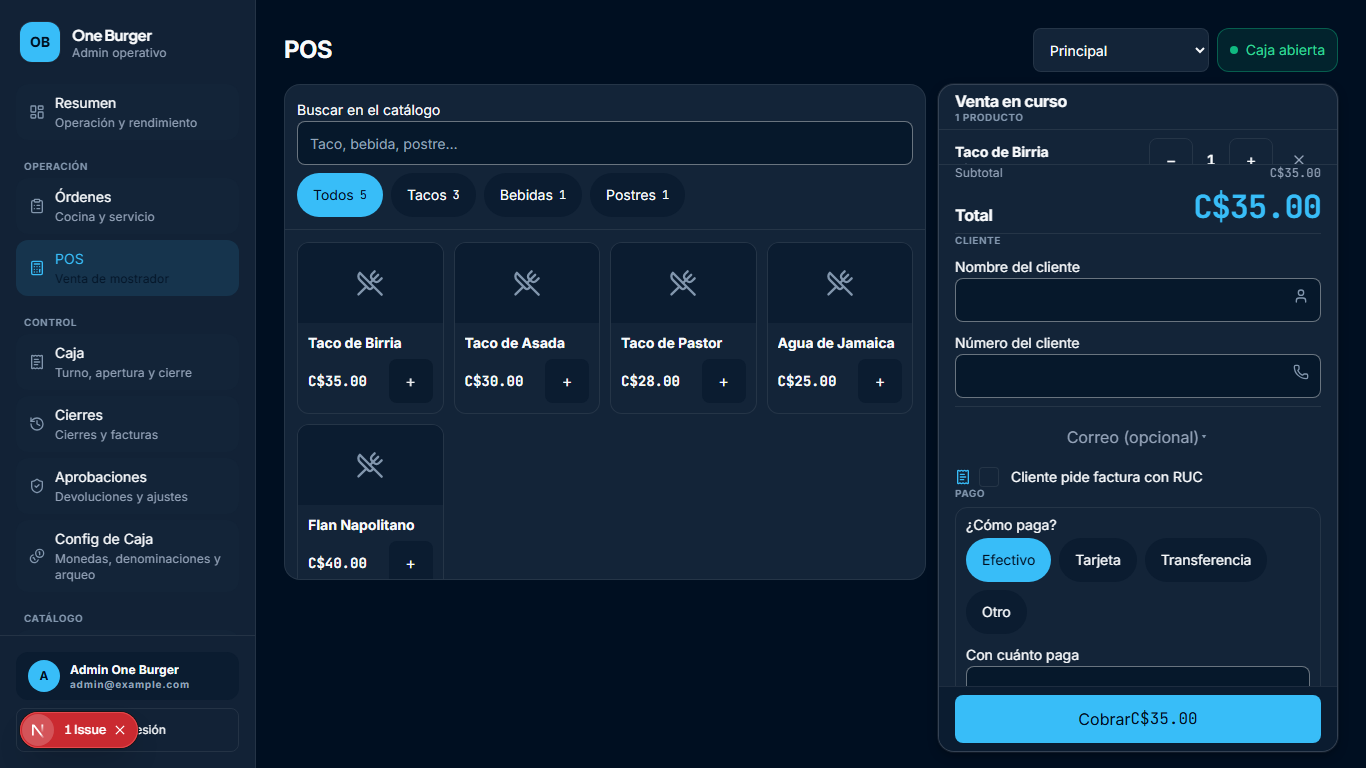
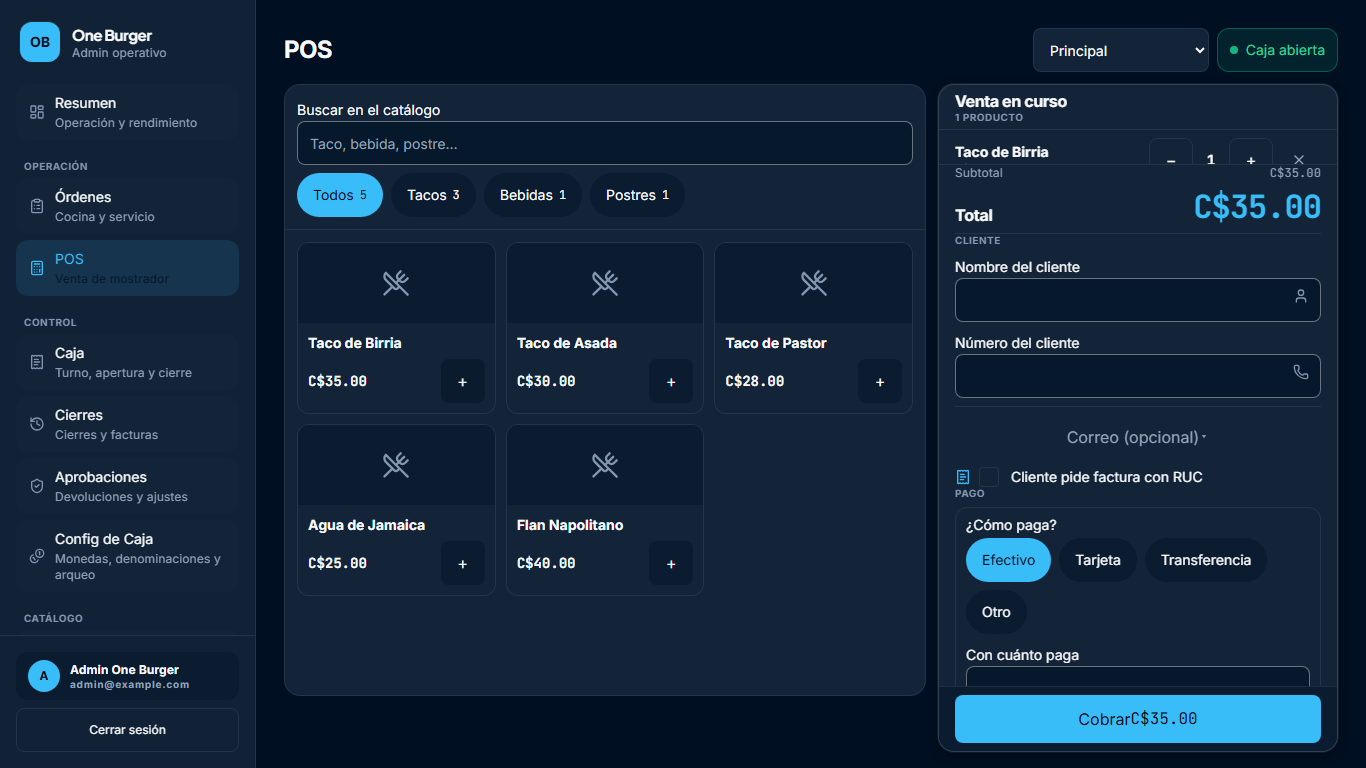
fix(pos): el catalogo usa todo el alto util y el CTA vuelve a decir Cobrar C$... (#67)
Problema (encontrado en la QA autenticada de produccion de SCREEN-POS-QUICK-SALE-001.1,
sobre 262962c / build-20260926-195012): la pantalla funcionaba pero no respetaba la
referencia aprobada en tres puntos medibles.

1. El catalogo quedaba a su alto natural: 496 px de 668 disponibles a 1366x768. La fila
   del workspace se medía por contenido porque el panel de venta es `position: fixed` en
   escritorio y porque `flex-1` trae `display: flex`, que pisa el `grid`. Ahora la fila
   reparte el alto (`lg:grow` + `lg:grid-rows-1`) y el workspace mide
   `calc(100dvh - 6.25rem)` con `lg:overflow-hidden` como red. Medido despues: 612 px de
   668 a 1366x768 y 564 de 620 a 1280x720.
2. La grilla era de cuatro columnas a 1366x768 y las tarjetas caian a 147 px, con el
   nombre partido en dos renglones por una palabra. Ahora son tres columnas en escritorio
   y dos abajo de `lg` (tarjetas de ~199 px y ~170 px), como la referencia.
3. El CTA decia `CobrarC$...` sin espacio: el JSX se comia el salto de linea entre el
   texto y el `<span>` del monto.

RED observado: el test nuevo del CTA falla con "Unable to find an accessible element with
the role button and name Cobrar C$145.00 - Name: CobrarC$145.00" y pasa al reponer el
espacio explicito. Los otros dos defectos son de layout y se validan por medicion en
navegador real (no hay asercion de px que no sea fragil).

Verificacion: 241 tests del POS y 3469 unitarios verdes; contratos 145 verdes (CURRENT.md
[…]

diff --git a/src/app/(admin)/admin/pos/quick-sale/pos-workspace.tsx b/src/app/(admin)/admin/pos/quick-sale/pos-workspace.tsx
@@ -311,15 +311,25 @@ export function PosWorkspace({
   const unitsCount = sale.lines.reduce((sum, line) => sum + line.quantity, 0);
 
   return (
-    <div className="flex flex-col gap-3 lg:h-[calc(100vh-13.5rem)] lg:min-h-[30rem]">
+    <div className="flex flex-col gap-3 lg:box-border lg:h-[calc(100dvh-6.25rem)] lg:overflow-hidden">
       <PosToolbar catalog={catalog} cash={cash} />
 
-      <div className="grid min-h-0 gap-3 max-lg:block lg:grid-cols-[minmax(0,1fr)_minmax(340px,25rem)]">
+      {/*
+        El segundo renglón se lleva **todo el alto que sobra**: la barra operativa mide lo que mide y el resto
+        es catálogo y venta.
+
+        El alto del workspace es `100dvh` menos el chrome real del admin (28 px de padding arriba y abajo más
+        los 44 px de la barra con su separación): con `100vh` a secas el pie del viewport se pasaba ~48 px y
+        el ticket terminaba fuera de la pantalla (medido a `1366×768`). `lg:overflow-hidden` es la red: si una
+        fila se niega a encogerse, se recorta acá y el catálogo sigue scrolleando adentro, en vez de empujar
+        el `Cobrar C$…` fuera de la vista.
+      */}
+      <div className="grid min-h-0 gap-3 max-lg:block lg:grow lg:grid-cols-[minmax(0,1fr)_minmax(340px,25rem)] lg:grid-rows-1">
         {/*
           `min-w-0`: sin eso la columna del catálogo se estira con su contenido (la fila de chips con scroll
           horizontal la dejaba más ancha que la pantalla y aparecía scroll horizontal a 375 px).
         */}
-        <div className="min-h-0 min-w-0">
+        <div className="min-h-0 min-w-0 max-lg:h-full">
           <PosCatalogGrid
             products={catalog.products}
             categories={catalog.categories}

diff --git a/src/app/(admin)/admin/pos/pos-catalog-grid.tsx b/src/app/(admin)/admin/pos/pos-catalog-grid.tsx
@@ -110,7 +110,12 @@ export default function PosCatalogGrid({
           />
         ) : (
           <ul
-            className="grid grid-cols-2 gap-2.5 sm:grid-cols-3 xl:grid-cols-4"
+            /*
+              Tres columnas en escritorio, como la referencia aprobada, y dos abajo de `lg` (tablet y celular).
+              Con cuatro columnas las tarjetas bajaban a ~147 px a `1366×768` y el nombre quedaba cortado en
+              dos renglones por una palabra; con tres quedan ~210 px, que es la proporción de la referencia.
+            */
+            className="grid grid-cols-2 gap-2.5 lg:grid-cols-3"
             aria-label="Productos del local"
           >
             {visibleProducts.map((product) => (

diff --git a/src/app/(admin)/admin/pos/pos-charge-panel.test.tsx b/src/app/(admin)/admin/pos/pos-charge-panel.test.tsx
@@ -49,6 +49,13 @@ describe("PosChargePanel", () => {
     expect(screen.getByRole("button", { name: /Cobrar/ }).textContent).toContain("145.00");
   });
 
+  it("el CTA separa la acción del monto (no dice `CobrarC$…`)", () => {
+    // Regresión visible en producción: el JSX se comía el espacio entre el texto y el `<span>` del monto.
+    renderPanel();
+
+    expect(screen.getByRole("button", { name: "Cobrar C$145.00" })).toBeTruthy();
+  });
+
   it("sin caja no se puede cobrar (y el motivo lo dice el bloque de caja)", () => {
     renderPanel({ canCharge: false });
 

diff --git a/src/app/(admin)/admin/pos/pos-charge-panel.tsx b/src/app/(admin)/admin/pos/pos-charge-panel.tsx
@@ -86,7 +86,9 @@ export default function PosChargePanel({
           "Cobrando…"
         ) : (
           <>
-            Cobrar <span className="font-mono">{formatCurrency(total, currency)}</span>
+            {/* El espacio antes del monto es explícito: sin él, el JSX lo come y el CTA dice `CobrarC$…`. */}
+            Cobrar{" "}
+            <span className="font-mono">{formatCurrency(total, currency)}</span>
           </>
         )}
       </Button>

diff --git a/ops/CURRENT.md b/ops/CURRENT.md
@@ -8,16 +8,18 @@ en qué estado está el sistema en pocos minutos.
 [`.agents/CONTEXT.md`](../.agents/CONTEXT.md)). Este archivo se **actualiza seguido** y se mantiene
 corto: si crece como un diario, dejó de servir.
 
-> **Última actualización**: 2026-09-26, por el release de **`SCREEN-POS-QUICK-SALE-001`** (POS Fase 1 — Venta
-> rápida, **desplegado** por el owner; ver §1 y §4).
+> **Última actualización**: 2026-09-26, por el release de **`SCREEN-POS-QUICK-SALE-001.1`** (cierre visual y
+> contractual de POS Fase 1, **desplegado**; ver §1 y §4). **POS Fase 1 queda COMPLETA**: con las credenciales
+> de admin que dio el owner se corrió la **QA autenticada en producción** a los cuatro viewports del contrato
+> (`1366×768`, `1280×720`, `768×1024`, `375×812`). **La Fase 2 NO se inició.**
 > **Vigente desde hoy: el Default E2E Delivery Contract** ([`.agents/skills/delivery-e2e/SKILL.md`](../.agents/skills/delivery-e2e/SKILL.md)):
 > una TASK aprobada declara su **Delivery Mode** y se ejecuta hasta el estado final **sin pedir permisos
 > intermedios**, y el **backup se decide por riesgo del release**, no por frecuencia (`A-57` sigue abierto como
 > problema del **scheduler** de backups y **no obliga** a un backup manual en releases que no lo necesitan).
 > **La fase de estabilización técnica sigue cerrada**: ningún P0 conocido y ningún P1 de dinero abierto. Lo que
 > sigue abierto es **operativo** (`A-57`) o **decisión del owner** (`A-66`, el `cashier` en Órdenes). Con
-> `DS-001`, `IA-001`, Órdenes y la **Venta rápida del POS** cerrados, lo que sigue es **`SCREEN-001 — Resumen`**,
-> que **no se inició**.
+> `DS-001`, `IA-001`, Órdenes y la **Venta rápida del POS** (Fase 1) cerradas, lo que sigue es
+> **`SCREEN-001 — Resumen`**, que **no se inició**.
 
 ---
 
@@ -25,12 +27,12 @@ corto: si crece como un diario, dejó de servir.
 
 | Qué | Estado |
 |---|---|
-| **Último deploy** | `build-20260926-170322`, sobre `be4c051a`+ (`main` con **`SCREEN-POS-QUICK-SALE-001`**, PR #62), 2026-09-26 17:03 UTC — deploy disparado por el **owner**. `/api/health` = `build-20260926-170322`, `/api/readiness` `ready` (DB 85 ms), smokes **menú 7/7** y **hosts 6/6**. **Sin backup manual**: no hay migración ni cambio de datos |
-| **`main`** | `3a58633` (docs de cierre, PR #63). El **código en producción** es `be4c051` — el commit de la TASK; el de docs no cambia lo desplegado. CI verde en cada push a `main` (los cuatro checks + `publish`) |
-| **Migración aplicada en este deploy** | **Ninguna**: el release es de pantalla y navegación. La última sigue siendo `20260925120000_add_payment_void`, aplicada el 2026-09-25 |
-| **Rollback target** | `build-20260926-031111` sobre `fff8d71` (IA-001 + Órdenes) — la aplicación se revierte revirtiendo el commit en `main` y volviendo a disparar `deployService`; la base no se toca (este release no migró) |
-| **Modelo de deploy** | Easypanel, proyecto `brunobot`, servicio `oneburguerweb`; build **desde GitHub `main`** con `forceRebuild`. Una sola llamada a `deployService` (la llamada cortó por timeout y el build siguió en segundo plano: comportamiento conocido, la action quedó `done`) |
-| **Migraciones** | El release de AUD-003..006 no trajo ninguna. El de A-59 **sí**: `20260925120000_add_payment_void`, aditiva y sin backfill, aplicada por el arranque |
+| **Último deploy** | `build-20260926-195012`, sobre `262962c` (`main` con **`SCREEN-POS-QUICK-SALE-001.1`**, PR #66), 2026-09-26 19:50 UTC. `/api/health` = `build-20260926-195012`, `/api/readiness` `ready` (DB 1 ms), smokes **menú 7/7** y **hosts 6/6**, y **QA autenticada en producción** a `1366×768`, `1280×720`, `768×1024` y `375×812` (§4). **Sin backup manual**: no hay migración ni cambio de datos |
+| **`main`** | `262962c` (PR #66, squash) — el commit que está en producción. El cierre de POS Fase 1 es **este PR**: código, spec y estado van juntos. CI verde en cada push a `main` (los cuatro checks + `publish`) |
+| **Migración aplicada en este deploy** | **Ninguna**: el release es de pantalla. La última sigue siendo `20260925120000_add_payment_void`, aplicada el 2026-09-25 |
+| **Rollback target** | `build-20260926-170322` sobre `be4c051` (Venta rápida, `SCREEN-POS-QUICK-SALE-001`) — la aplicación se revierte revirtiendo el commit en `main` y volviendo a disparar `deployService`; la base no se toca (ninguno de los dos releases migró) |
+| **Modelo de deploy** | Easypanel, proyecto `brunobot`, servicio `oneburguerweb`; build **desde GitHub `main`** con `forceRebuild`. Una sola llamada a `deployService` (la llamada puede cortar por timeout y el build sigue en segundo plano: comportamiento conocido) |
+| **Migraciones** | Este release no trae ninguna. La última es `20260925120000_add_payment_void` (A-59), aditiva y sin backfill, aplicada por el arranque |
 | **Réplicas** | `1` |
 | **Backup pre-deploy** | **El owner generó un backup manual de la base** (confirmado el 2026-09-26) aunque el release no lo exigía —no hay migración ni cambio de datos—. El hallazgo `A-57` (el backup **programado** no genera archivos y no hay retención declarada) **sigue abierto** y es del owner; el archivo **no se pudo verificar** desde acá (el panel de Easypanel responde **401** sin token) |
 | **Hosts activos** | `oneburgernic.com` y `www` (landing + redirects 307) · `menu.oneburgernic.com` (app de pedidos) · `admin.oneburgernic.com` (panel) |
@@ -39,32 +41,30 @@ corto: si crece como un diario, dejó de servir.
 | **Datos de negocio** | 3 sucursales reales (Camino de Oriente, Carretera Masaya, Casa Antigua). La carta la sigue cargando el owner |
 | **Caja en producción** | Sin terminales de caja cargadas al momento del último QA: es el estado real del negocio, no un defecto |
 
-⚠ **Lo que la verificación de este release NO pudo hacer desde el entorno del agente**: no hay
-credenciales de admin de producción (`E2E_ADMIN_*`), así que la **QA autenticada 375/768/1280 del POS queda
-pendiente del owner** (es el mismo límite que arrastran los releases anteriores, anotado en el runbook §3).
-El POS se verificó **antes** del deploy contra una base local con la suite E2E completa (`admin-pos` 11/11 a
-375, 768 y 1280, con capturas en [`design/screens/`](design/screens/)), y después del deploy lo que se puede
-comprobar sin sesión: `build-20260926-170322` sirviendo, readiness `ready` y los dos smokes en verde.
+✅ **QA autenticada de producción del POS (2026-09-26, hecha)**: el owner dio credenciales de admin, así que
+—a diferencia de los releases anteriores, donde este paso quedaba pendiente— la pantalla se abrió **en
+producción con sesión** a los cuatro viewports del contrato (`1366×768`, `1280×720`, `768×1024`, `375×812`).
+Cada uno se midió en el navegador: sin scroll horizontal, barra operativa en una línea, sin hero y sin
+`Cobrar pedido del menú`, el `Cobrar C$…` dentro del primer viewport y el sheet de celular abriendo con su
+total. Las credenciales se usaron solo por entorno y **no** se guardan en el repo.
+⚠ **Lo que la verificación de este release NO pudo hacer desde acá**: los **logs del contenedor** no son
+accesibles por API (`inspectAction`/`getActionLogs`/`inspectServiceLogs` responden 404) y no se ejercitó la
+presencia de `voidedAt` con lectura autenticada (sí la aplica el contenedor al arrancar). El POS se verificó
+además **antes** del deploy contra una base local con la suite E2E completa (`admin-pos` 11/11 con mutaciones,
+capturas en [`design/screens/`](design/screens/)).
 
 ⚠ **Hallazgo operativo (sigue abierto): el backup programado no genera archivos.** La config está
-`enabled: true` (cron `0 0 * * *`) y carpeta `oneburguer`, pero las **únicas** acciones de backup del
-servicio son **tres** desde siempre: las dos del drill (2026-09-12) y la manual del release anterior
-(2026-09-25 12:27). El respaldo programado **no produjo ningún archivo**, tampoco el del día de este
-release. **No hay retención declarada.** El backup de este release lo confirmó el owner a mano →
-`A-57` en el backlog.
+`enabled: true` (cron `0 0 * * *`) y carpeta `oneburguer`, pero las **únicas** acciones de backup del servicio
+son **tres** desde siempre: las dos del drill (2026-09-12) y la manual del release anterior. El respaldo
+programado **no produjo ningún archivo** y **no hay retención declarada** → `A-57` en el backlog.
 
-✅ **Verificación post-deploy del release de la Venta rápida (2026-09-26, solo lectura y sin sesión)**:
-`/api/health` = `build-20260926-170322` (versión nueva) y `/api/readiness` `ready`; los dos smokes **7/7** y
-**6/6**. Lo que **no** se pudo hacer: abrir una pantalla con sesión —no hay credenciales de admin acá—, así
-que la **QA autenticada del POS 375/768/1280 queda pendiente del owner** (se verificó antes del deploy contra
-una base local: `admin-pos` **11/11**, capturas en [`design/screens/`](design/screens/)). Tampoco se
-ejercitó la presencia de `voidedAt` con lectura autenticada (sí la aplica el contenedor al arrancar).
+✅ **Verificación post-deploy del release (2026-09-26, solo lectura)**: `/api/health` =
+`build-20260926-195012` (versión nueva) y `/api/readiness` `ready`; los dos smokes **7/7** y **6/6**.
 
 📋 **Pasada read-only de A-50/A-51 (acotada, sin reparar nada)**: **A-51** — los **5** cierres tienen
 `expectedAmount` firmado y **ninguno** tenía retiros ni devoluciones, así que la fórmula corregida de AUD-005
 **no altera ningún número histórico**; el detalle de `ShiftBankClose` es **no determinable** (producción no
-tiene bancos configurados). **A-50** — **no identificable** desde la API (no expone los cobros ni la clave de
-intento): requiere leer la base. **No reparado.**
+tiene bancos configurados). **A-50** — **no identificable** desde la API: requiere leer la base. **No reparado.**
 
 ⚠ **Límite del entorno del agente en este release**: **los logs del contenedor no son accesibles por API**
 (`actions/inspectAction`, `actions/getActionLogs` y `services/app/inspectServiceLogs` responden 404), así que
@@ -157,13 +157,15 @@ está **aprobado y desplegado**; **`IA-001`** (navegación del panel) también; 
 **`SCREEN-POS-QUICK-SALE-001`** la segunda ([`design/screens/pos-quick-sale.md`](design/screens/pos-quick-sale.md)).
 Lo que sigue es **`SCREEN-001 — Resumen`**, que **no se inició**.
 
-**SCREEN-POS-QUICK-SALE-001 — POS Fase 1 / Venta rápida (cerrada, `be4c051`, `build-20260926-170322`,
-desplegada por el owner)**: la Venta rápida pasó a un **workspace `CATÁLOGO | VENTA`** —ticket anclado al
-viewport en escritorio, barra + sheet en celular y tablet, opciones secundarias bajo demanda—. **Sin dominio,
-sin endpoints, sin permisos y sin DB.** `pos-client.tsx` bajó de **1.005 a 427 líneas**. El detalle, la QA y
-los dos desvíos medidos respecto del boceto están en
-[`design/screens/pos-quick-sale.md`](design/screens/pos-quick-sale.md). **QA autenticada de producción
-pendiente del owner**: desde acá no hay credenciales de admin (§1).
+**SCREEN-POS-QUICK-SALE-001.1 — POS Fase 1 / Venta rápida (CERRADA: Fase 1 COMPLETA)**: la 001 adoptó el
+workspace `CATÁLOGO | VENTA` (`be4c051`, `build-20260926-170322`) y la **001.1** lo corrigió contra la
+**referencia revisada del owner**: hero y explicaciones fuera, barra operativa de **una línea**, acciones de
+caja **solo donde bloquean el cobro**, `Cobrar pedido del menú` fuera del POS (*one canonical flow*: Órdenes
+localiza, POS cobra), catálogo y ticket a **alto útil** y opciones secundarias plegadas. **Sin dominio, sin
+endpoints, sin permisos y sin DB.** La **QA autenticada de producción** del contrato de viewport encontró tres
+defectos visuales —catálogo a su alto natural (496 px de 668), cuatro columnas con tarjetas de 147 px y el CTA
+diciendo `CobrarC$…`— que este release corrige y vuelve a medir (detalle y evidencia en
+[`design/screens/pos-quick-sale.md`](design/screens/pos-quick-sale.md)). **La Fase 2 NO se inició.**
 
 **SCREEN-ORDERS-001 — Órdenes (cerrada, `fff8d71`, desplegada)**: discovery, arquitectura/IA, spec, prototipo
 y capturas → implementación bajo DS v4 → QA de navegador a 375/768/1280 → PR #57 con CI verde. Entregado: los
@@ -190,21 +192,20 @@ aprobó el owner, en [`roadmap/`](roadmap/).
 
 **Baseline de `DS-001` (2026-09-26, cerrado)**: `4dc2cbb` → `build-20260926-003808`, sin migraciones ni cambios visuales; quedó superado por el release de `IA-001` + Órdenes (ver §1).
 
-**Release de `SCREEN-POS-QUICK-SALE-001` (2026-09-26, cerrado)**: `main` = `be4c051` **desplegado** sirviendo
-`build-20260926-170322` (deploy del owner). Sin migraciones, sin dominio y sin backup. Health/readiness y los
-dos smokes (7/7 y 6/6) en §1; la **QA autenticada de producción queda pendiente del owner** porque acá no hay
-credenciales de admin.
+**Release de `SCREEN-POS-QUICK-SALE-001.1` (2026-09-26, cerrado)**: `main` = `262962c` **desplegado** sirviendo
+`build-20260926-195012`, más las tres correcciones que salieron de la QA autenticada. Sin migraciones, sin
+dominio y sin backup. Health/readiness y los dos smokes (7/7 y 6/6) en §1; la **QA autenticada de producción**
+del contrato de viewport quedó **hecha** con las credenciales del owner (§4).
 
 **El bloque financiero de la remediación quedó cerrado y desplegado** (`AUD-003..006`, `A-54`, `A-55`,
 `A-58`, `A-59`) y con él la **fase de estabilización técnica**. Lo que sigue, en orden:
 
-1. **QA autenticada de producción del POS** (375/768/1280) — la hace el owner o alguien con las credenciales.
-2. **`SCREEN-001` — `/admin` Resumen**: **no iniciado**. Se diseña con la skill `screen-design` (spec
+1. **`SCREEN-001` — `/admin` Resumen**: **no iniciado**. Se diseña con la skill `screen-design` (spec
    aprobada por el owner) y se implementa bajo DS v4 en una sola pasada, como en Órdenes.
-3. **POS Fase 2 — pedidos existentes / pagos / bancos / USD / factura**: la define el owner **aparte**; la
+2. **POS Fase 2 — pedidos existentes / pagos / bancos / USD / factura**: la define el owner **aparte**; la
    Fase 1 dejó escrito qué no se tocó. **No se inicia automáticamente.**
-4. **Deuda de Órdenes (`A-60` a `A-66`)** y después `AUD-009`/`AUD-010`, `AUD-012`/`AUD-013`/`AUD-014`.
-5. `A-57` (backup programado) es **infraestructura**: el owner decide y no bloquea el producto. Y **higiene
+3. **Deuda de Órdenes (`A-60` a `A-66`)** y después `AUD-009`/`AUD-010`, `AUD-012`/`AUD-013`/`AUD-014`.
+4. `A-57` (backup programado) es **infraestructura**: el owner decide y no bloquea el producto. Y **higiene
    pendiente del owner**: revocar la cuenta de QA anterior y **rotar el `EASYPANEL_TOKEN`**.
 
 > ⚠ **Dos correcciones al brief de la auditoría, verificadas en el repo:**

diff --git a/ops/roadmap/NEXT.md b/ops/roadmap/NEXT.md
@@ -2,13 +2,16 @@
 
 ## Ahora
 
-**`SCREEN-POS-QUICK-SALE-001 — POS Fase 1 / Venta rápida` cerrada y desplegada** (2026-09-26, PR #62,
-`be4c051`, `build-20260926-170322`): la Venta rápida dejó de ser un formulario vertical y pasó a un
-**workspace `CATÁLOGO | VENTA`** —ticket anclado al viewport en escritorio, barra + sheet en celular y
-opciones secundarias bajo demanda—. La spec canónica vive en
-[`../design/screens/pos-quick-sale.md`](../design/screens/pos-quick-sale.md), con la referencia del owner al
-lado. Health, readiness y los dos smokes en [`../CURRENT.md`](../CURRENT.md) §1. **QA autenticada de
-producción (375/768/1280): pendiente del owner** —desde el entorno del agente no hay credenciales de admin.
+**`SCREEN-POS-QUICK-SALE-001.1 — POS Fase 1 / Venta rápida` CERRADA: la Fase 1 está COMPLETA** (2026-09-26).
+La 001 (PR #62, `be4c051`, `build-20260926-170322`) convirtió la Venta rápida en un **workspace
+`CATÁLOGO | VENTA`** —ticket anclado al viewport en escritorio, barra + sheet en celular y tablet y opciones
+secundarias bajo demanda— y la **001.1** la corrigió contra la **referencia revisada del owner** (hero fuera,
+barra operativa de una línea, acciones de caja solo donde bloquean el cobro, `Cobrar pedido del menú` fuera del
+POS, catálogo y ticket a alto útil) y le agregó los guardrails de **reuse-first**, **one canonical flow**,
+**reuse audit**, **reference fidelity** y **viewport contract**. La spec canónica vive en
+[`../design/screens/pos-quick-sale.md`](../design/screens/pos-quick-sale.md); el deploy, la **QA autenticada de
+producción a los cuatro viewports** (`1366×768`, `1280×720`, `768×1024`, `375×812`) y los dos smokes están en
+[`../CURRENT.md`](../CURRENT.md) §1 y §4. **La Fase 2 NO se inició.**
 
 **`SCREEN-ORDERS-001 — Órdenes` cerrada y desplegada** (2026-09-26): es la **primera sección rediseñada de
 punta a punta** con el proceso completo —discovery, arquitectura/IA, spec de pantalla, prototipo y capturas,
@@ -25,20 +28,16 @@ no normativo**. `ARCH-001` ([`../product/MODULE_ARCHITECTURE.md`](../product/MOD
 
 ## Después
 
-1. **QA autenticada de producción de la Venta rápida** (375/768/1280) — la hace el owner o alguien con
-   credenciales de admin; desde el entorno del agente no hay. Casos mínimos: venta vacía, agregar/sacar,
-   modificadores, cantidades, búsqueda, categorías, agotado, efectivo y vuelto, tarjeta, transferencia,
-   multi-pago, promo, RUC, descuento, esperas, caja cerrada, cierre obligatorio, offline, success y recarga
-   con draft recuperado.
-2. **`SCREEN-001 — /admin Resumen`**: **no iniciado**. El camino es producto + arquitectura + IA + UX →
+1. **`SCREEN-001 — /admin Resumen`**: **no iniciado**. El camino es producto + arquitectura + IA + UX →
    mockup canónico → revisión del owner → implementación bajo DS v4 (skill `screen-design`), igual que se
    hizo en Órdenes.
-3. **`POS Fase 2 — pedidos existentes / pagos / bancos / USD / factura`**: la define el owner **aparte**. La
+2. **`POS Fase 2 — pedidos existentes / pagos / bancos / USD / factura`**: la define el owner **aparte**. La
    Fase 1 dejó escrito qué **no** se tocó (banco/procesador en `Payment`, corrección USD del cobro de pedidos
-   existentes, promo a un pedido ya creado y el rediseño final de «Cobrar pedido»). **No se inicia sola.**
-4. **Deuda de Órdenes (`A-60` a `A-66`)**: por riesgo, primero `A-60` (plata y PIN en el detalle para
+   existentes, promo a un pedido ya creado y el rediseño final de «Cobrar pedido», que ahora vive en
+   `A-67`: Órdenes localiza el pedido y el POS lo cobra). **No se inicia sola.**
+3. **Deuda de Órdenes (`A-60` a `A-67`)**: por riesgo, primero `A-60` (plata y PIN en el detalle para
    `kitchen`) y `A-61` (proyección del endpoint de la bandeja).
-5. **Revisión del owner de `ARCH-001`** — las divergencias registradas (Resumen/POS en la navegación, el
+4. **Revisión del owner de `ARCH-001`** — las divergencias registradas (Resumen/POS en la navegación, el
    dominio de Caja repartido) siguen siendo decisiones suyas, y `A-66` (el `cashier` en Órdenes) es la
    primera de la lista.
 

diff --git a/ops/design/screens/pos-quick-sale.md b/ops/design/screens/pos-quick-sale.md
@@ -1,8 +1,14 @@
 # Spec de pantalla — POS / Venta rápida (`/admin/pos`)
 
-> **Plantilla**: [`TEMPLATE.md`](TEMPLATE.md). **Estado**: Fase 1 adoptada por `SCREEN-POS-QUICK-SALE-001` y
-> **corregida visual y contractualmente** por `SCREEN-POS-QUICK-SALE-001.1` (2026-09-26): la referencia anterior
-> queda **reemplazada** para composición, densidad y comportamiento responsive.
+> **Plantilla**: [`TEMPLATE.md`](TEMPLATE.md).
+>
+> **Estado: `SCREEN-POS-QUICK-SALE-001.1` desplegada y con QA autenticada de producción cerrada** (2026-09-26):
+> sobre `262962c`, sirviendo `build-20260926-195012`, con la QA en navegador real a los cuatro viewports del
+> contrato (`1366×768`, `1280×720`, `768×1024`, `375×812`) contra producción y sesión de admin. La Venta rápida
+> de la Fase 1 queda **completa**; la Fase 2 **no** se inició.
+>
+> **Corrección visual y contractual**: la referencia anterior queda **reemplazada** para composición, densidad y
+> comportamiento responsive.
 >
 > **Referencia de UX/layout/comportamiento**: [`pos-quick-sale-reference.html`](pos-quick-sale-reference.html)
 > (prototipo, **no** código productivo: se traduce a componentes reales, **no** se reinterpreta).
@@ -199,9 +205,10 @@ venta vive en un **sheet** que se abre desde la barra inferior persistente, al p
 | Caja: **estado** en la barra, **acción** en el checkout (`Abrir caja`; `Cierre pendiente → Cerrar caja`, que enlaza a Caja) | `pos-cash-action.test.tsx` + tests del workspace + E2E de caja |
 | `Cobrar pedido del menú` **eliminado** del POS (sin reemplazo: pertenece a Órdenes) | lint/typecheck sin referencias + spec § *Reuse audit* |
 | Ticket con **alto útil**: las líneas se llevan el espacio libre y el CTA queda anclado al pie | Tests del workspace + medición en los cuatro viewports |
-| Catálogo más **denso** (foto compacta, sin repetir la categoría de los chips, 3–4 columnas) | `pos-catalog-card.test.tsx` + capturas |
+| Catálogo más **denso** (foto compacta, sin repetir la categoría de los chips, **tres columnas** en escritorio y dos abajo de `lg`, como la referencia) | `pos-catalog-card.test.tsx` + capturas |
 | Scroll de página eliminado en operación normal; el scroll vive en el catálogo y en las líneas | QA de navegador: `1366×768`, `1280×720`, `768×1024`, `375×812` |
 | Guardrails nuevos (reuse-first, one canonical flow, reuse audit, reference fidelity, viewport contract) | `MODULE_ARCHITECTURE.md` §10.1–§10.3, `DESIGN_SYSTEM.md` §12, `TEMPLATE.md`, skills `screen-design` / `new-task` |
+| **Correcciones del QA de producción** (2026-09-26, sobre `262962c`): el catálogo ocupa **todo el alto útil** de su columna (antes quedaba a su alto natural, 496 px de 668), la grilla es de **tres columnas** (cuatro dejaba la tarjeta en 147 px y el nombre partido) y el CTA dice **`Cobrar C$…`** con su espacio (antes: `CobrarC$…`) | Medición en navegador + `pos-charge-panel.test.tsx` (con RED observado) |
 
 **Divergencias respecto de la referencia, decididas y medidas** (una divergencia material sin decisión sería
 Stop Condition; estas están justificadas por la propia spec aprobada, que permite el patrón mobile cuando dos
@@ -212,6 +219,9 @@ columnas comprometen la legibilidad):
 2. **El panel de escritorio se ancla con `position: fixed` medido, no con `sticky`**: un `<dialog open>` con
    `sticky` no se pega (medido en Chromium) y el `<dialog>` es la forma correcta frente a la ley que prohíbe el
    rol de diálogo escrito a mano.
+3. **La foto del producto mide 80 px fijos** (la referencia usa 84 px): la tarjeta real tiene el nombre en
+   dos renglones y el precio con `tabular-nums`, así que la proporción se ajustó para conservar la densidad
+   de la referencia sin cortar nombres reales.
 
 **Estado previo (Fase 1, `be4c051`, `build-20260926-170322`)**: cerrada y desplegada con los cuatro checks de
 CI verdes, `/api/health` con la versión nueva, `/api/readiness` `ready` y los dos smokes (7/7 y 6/6).

diff --git a/.agents/MEMORY.md b/.agents/MEMORY.md
@@ -33,6 +33,15 @@ va al historial o al PR. Si cambia semana a semana, va a `CURRENT.md`.
   de uso, porque el aviso al dueño y el traspaso se firman con el arqueo completo).
 - **La zona horaria del negocio sale de `BusinessSettings.timezone`**; `America/Managua` y `-06:00`
   están prohibidos como literales (los detecta el contrato anti-hardcode).
+- **Un `<dialog open>` no es un bloque común para CSS de layout** (`SCREEN-POS-QUICK-SALE-001.1`, medido en
+  Chromium): trae `inset: 0` y `margin: auto` del navegador —con `top` puesto, el navegador lo **estira**
+  hasta el fondo—, **no se pega** con `position: sticky`, y un `max-height` en `vh` ignora el ancla (si
+  arranca debajo de una barra, el pie queda fuera de pantalla). Para usarlo como columna: `position: fixed`
+  con el ancla **medida** (`getBoundingClientRect` + `bottom: auto` + `margin: 0`) y el alto en
+  `calc(100dvh - ancla)`.
+- **Una fila de `grid` no crece con `flex-1`**: `flex-1` trae `display: flex`, que pisa el `grid`. Para
+  repartir alto en un grid hace falta `grow` + `grid-rows-1`. Y si el panel vecino es `fixed`, la fila se
+  mide por **contenido**: sin reparto explícito el panel queda a su alto natural y no al del viewport.
 - **La aceptación de pedidos tiene una sola puerta**: `order-acceptance.ts`. Un control que nadie lee
   es una mentira: `isAcceptingOrders` existía en el esquema y en la UI, pero **ningún** caso de uso lo
   consultaba.

diff --git a/ops/roadmap/PRODUCT-UX-ROADMAP.md b/ops/roadmap/PRODUCT-UX-ROADMAP.md
@@ -678,12 +678,14 @@ IA-001 — navegación del panel
         ↓
 SCREEN-ORDERS-001 — Órdenes ✅
         ↓
-SCREEN-POS-QUICK-SALE-001 — POS Fase 1 / Venta rápida ✅
+SCREEN-POS-QUICK-SALE-001.1 — POS Fase 1 / Venta rápida ✅ (Fase 1 COMPLETA)
 │
 ├── workspace CATÁLOGO | VENTA (ticket anclado en escritorio)
-├── barra + sheet en celular y tablet
-├── opciones secundarias bajo demanda
-└── cero dominio / DB  (el deploy queda pendiente del token)
+├── barra + sheet en celular y tablet · opciones secundarias bajo demanda
+├── referencia del owner aplicada: barra de una línea, caja solo donde bloquea el cobro
+├── guardrails: reuse-first · one canonical flow · reuse audit · reference fidelity · viewport contract
+├── desplegado (`build-20260926-195012`) y QA autenticada de producción en los 4 viewports
+└── cero dominio / DB · Fase 2 NO iniciada
         ↓
 POS Fase 2 — pedidos existentes / pagos / bancos / USD / factura
 │
